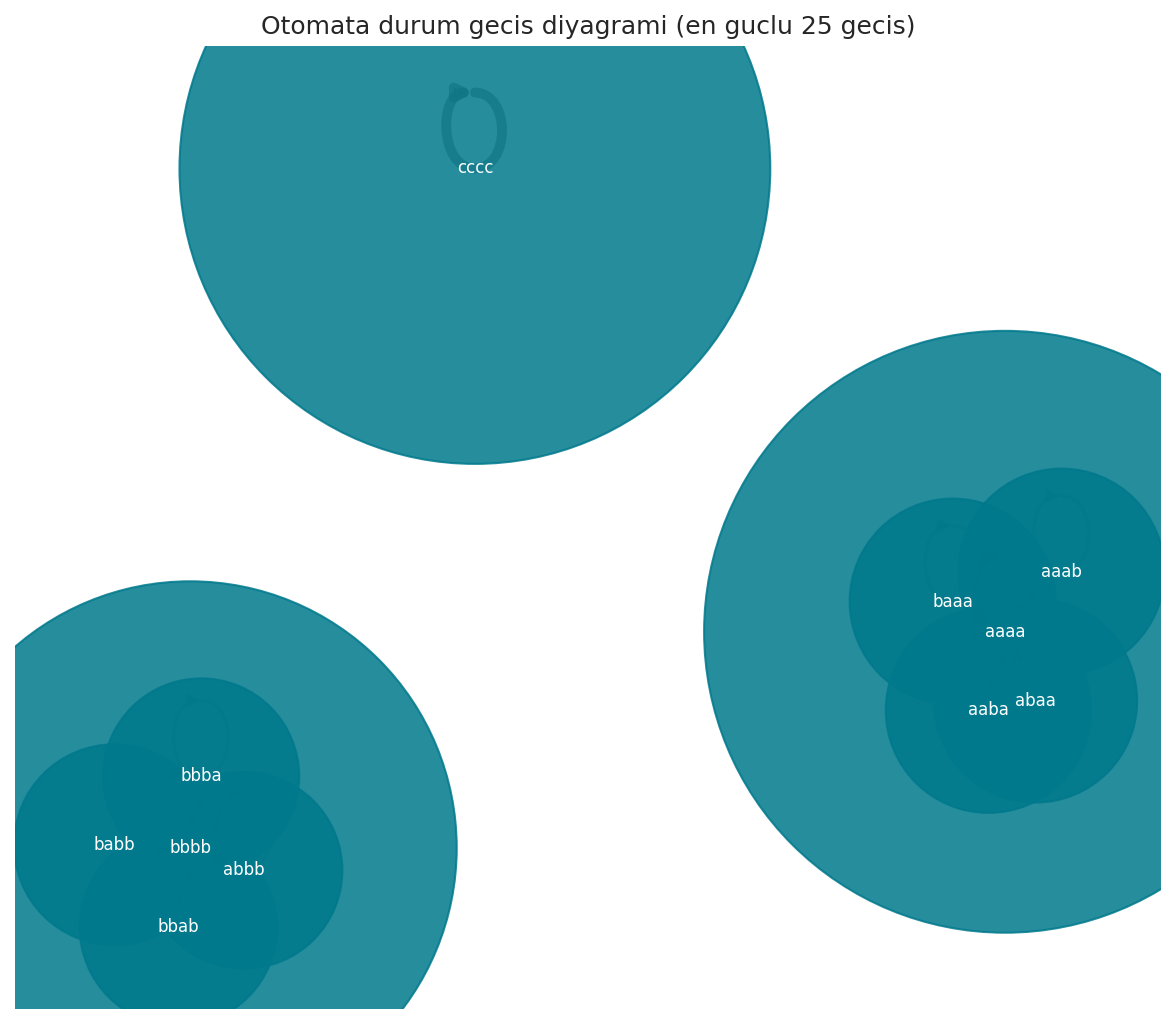
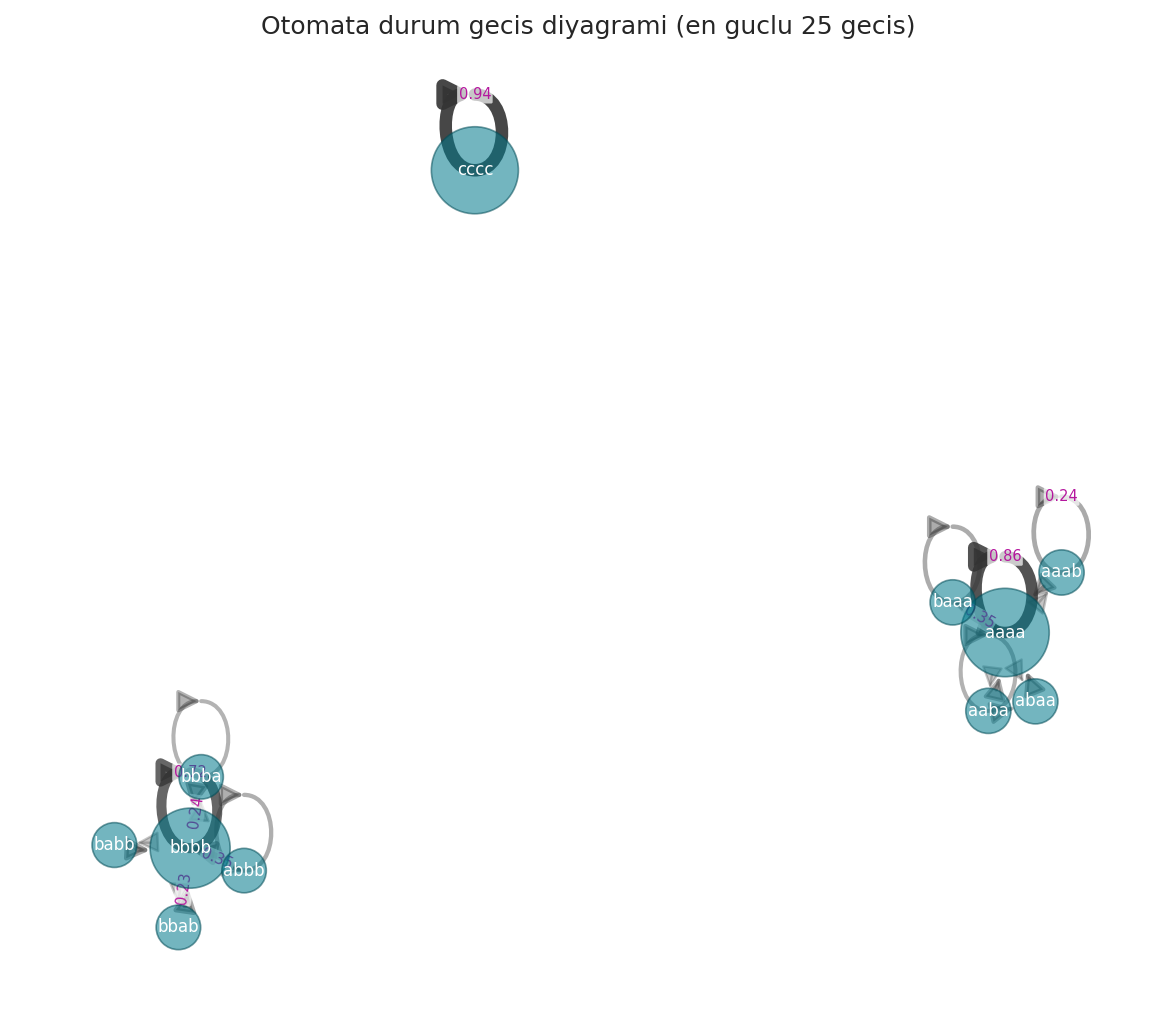
figur: otomata durum gecis diyagrami okunabilir hale getirildi

diff --git a/scripts/make_figures.py b/scripts/make_figures.py
@@ -189,7 +189,13 @@ def fig_gecis_matrisi(model, cikti):
 
 
 # ---- 5) durum gecis diyagrami ----
-def fig_durum_diyagrami(model, cikti, ust_kenar=25):
+def fig_durum_diyagrami(model, cikti, ust_kenar=25, etiketli_kenar=8):
+    """En guclu gecisleri yonlu graf olarak cizer.
+
+    Dugum boyutu kaynak durumun toplam cikis sayisina gore normalize edilir;
+    kenar kalinligi ve saydamligi gecis olasiligina gore olceklenir; en guclu
+    birkac gecise olasilik etiketi eklenir.
+    """
     oto = model.oto
     kenarlar = sorted(oto.gecis_sayim.items(), key=lambda kv: kv[1], reverse=True)[:ust_kenar]
     G = nx.DiGraph()
@@ -197,15 +203,33 @@ def fig_durum_diyagrami(model, cikti, ust_kenar=25):
         G.add_edge(k, h, weight=sayi, olasilik=oto.gecis_olasiligi(k, h))
     if G.number_of_nodes() == 0:
         return
-    boyut = [300 + 40 * oto.kaynak_toplam.get(n, 0) for n in G.nodes()]
+    # dugum boyutu: kaynak_toplam'a gore normalize, ust sinirli
+    max_kaynak = max((oto.kaynak_toplam.get(n, 0) for n in G.nodes()), default=0)
+    bolen = max_kaynak if max_kaynak > 0 else 1
+    boyut = [300 + 1500 * (oto.kaynak_toplam.get(n, 0) / bolen) for n in G.nodes()]
+    # kenar olasiliklari: alpha ve kalinlik icin 0..1 araliginda normalize et
+    olasiliklar = [G[u][v]["olasilik"] for u, v in G.edges()]
+    max_p = max(olasiliklar) if olasiliklar else 1.0
+    p_norm = [(p / max_p if max_p > 0 else 0.0) for p in olasiliklar]
+    kenar_genislik = [1.0 + 5.0 * w for w in p_norm]
+    kenar_alpha = [0.25 + 0.65 * w for w in p_norm]
     fig, ax = plt.subplots(figsize=(8, 7))
     yer = nx.spring_layout(G, seed=42, k=0.9)
-    agirliklar = [G[u][v]["olasilik"] for u, v in G.edges()]
-    nx.draw_networkx_nodes(G, yer, node_size=boyut, node_color="#00798c", alpha=0.85, ax=ax)
+    # dugumler: alpha dusuk ki ustteki oklar gorunsun
+    nx.draw_networkx_nodes(G, yer, node_size=boyut, node_color="#00798c",
+                           alpha=0.55, edgecolors="#004b56", linewidths=0.8, ax=ax)
     nx.draw_networkx_labels(G, yer, font_size=8, font_color="white", ax=ax)
-    nx.draw_networkx_edges(G, yer, width=[1 + 4 * w for w in agirliklar],
-                           edge_color="#555", alpha=0.6, arrowsize=12,
-                           connectionstyle="arc3,rad=0.1", ax=ax)
+    # kenarlar: kalinlik+alpha olasiliga gore, oklar belirgin
+    nx.draw_networkx_edges(G, yer, width=kenar_genislik, edge_color="#333333",
+                           alpha=kenar_alpha, arrowsize=22, arrowstyle="-|>",
+                           node_size=boyut, connectionstyle="arc3,rad=0.1", ax=ax)
+    # en guclu birkac gecise olasilik etiketi
+    guclu = sorted(G.edges(data=True), key=lambda e: e[2]["olasilik"], reverse=True)[:etiketli_kenar]
+    kenar_etiket = {(u, v): f"{d['olasilik']:.2f}" for u, v, d in guclu}
+    nx.draw_networkx_edge_labels(G, yer, edge_labels=kenar_etiket, font_size=7,
+                                 font_color="#b5179e", label_pos=0.5,
+                                 bbox={"boxstyle": "round,pad=0.1", "fc": "white",
+                                       "ec": "none", "alpha": 0.7}, ax=ax)
     ax.set_title(f"Otomata durum gecis diyagrami (en guclu {len(kenarlar)} gecis)")
     ax.axis("off")
     fig.tight_layout()